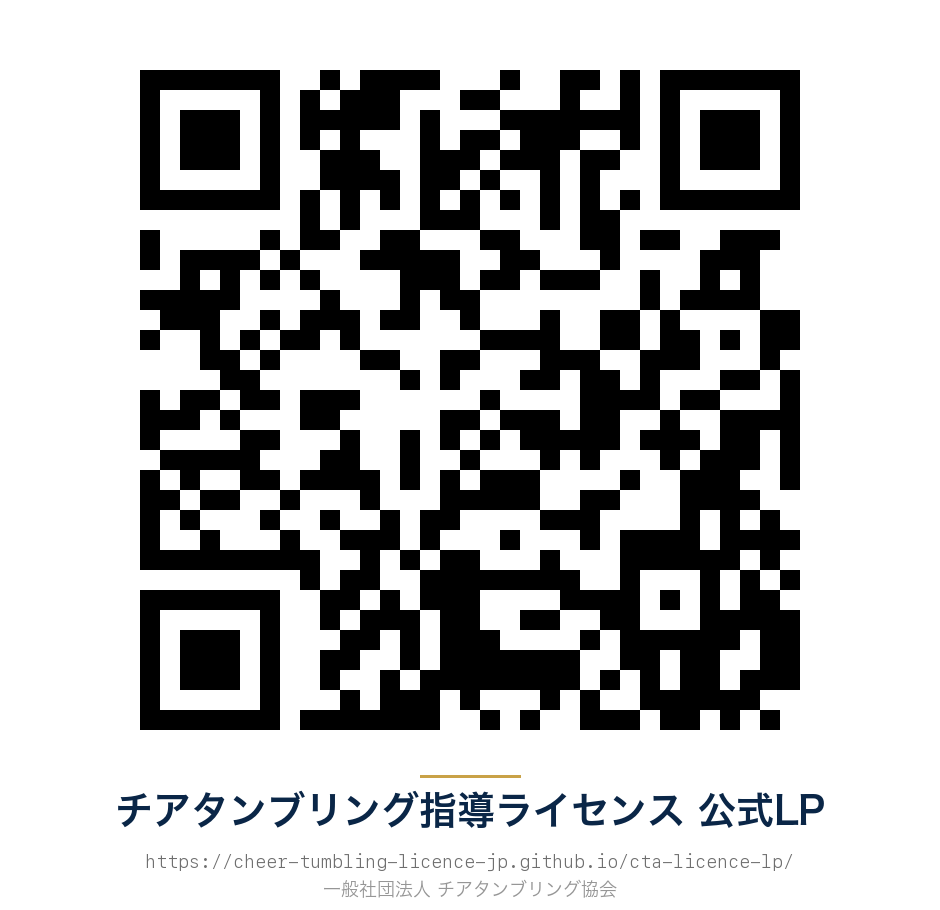
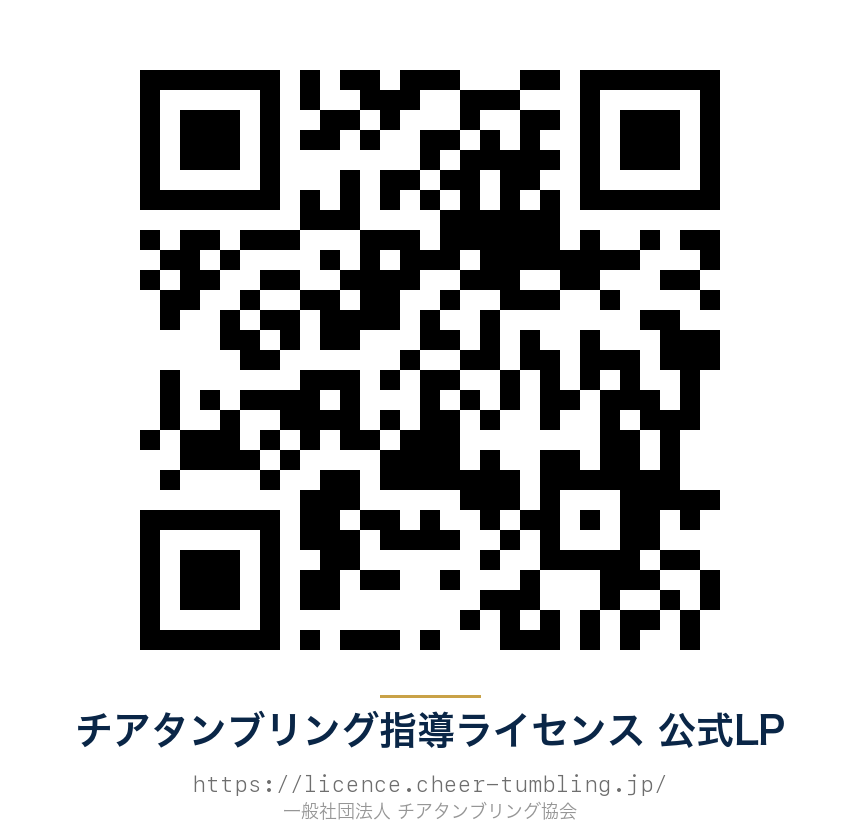
独自ドメイン licence.cheer-tumbling.jp に移行（CNAME追加・全URL更新・QR再生成）

diff --git a/index.html b/index.html
@@ -6,7 +6,7 @@
 <title>タンブリング指導ライセンス｜一般社団法人 チアタンブリング協会</title>
 <meta name="description" content="チアリーディング・体操・アクロバット指導者向けの認定資格。安全管理・段階的指導・基礎構造を体系化した、現場で活きる指導者のための基礎資格です。2027年度（令和9年度）受験受講のご案内。">
 <meta name="theme-color" content="#0a2647">
-<link rel="canonical" href="https://cheer-tumbling-licence-jp.github.io/cta-licence-lp/">
+<link rel="canonical" href="https://licence.cheer-tumbling.jp/">
 
 <!-- ==========================================
      Favicon（タブのアイコン）
@@ -23,8 +23,8 @@
 <meta property="og:title" content="タンブリング指導ライセンス｜チアタンブリング協会">
 <meta property="og:description" content="安全を理解し、理論に基づいた指導ができるコーチへ。CTA公式の指導者認定資格。2027年度受講受験生 受付中。">
 <meta property="og:type" content="website">
-<meta property="og:url" content="https://cheer-tumbling-licence-jp.github.io/cta-licence-lp/">
-<meta property="og:image" content="https://cheer-tumbling-licence-jp.github.io/cta-licence-lp/assets/ogp-card.png">
+<meta property="og:url" content="https://licence.cheer-tumbling.jp/">
+<meta property="og:image" content="https://licence.cheer-tumbling.jp/assets/ogp-card.png">
 <meta property="og:image:width" content="1200">
 <meta property="og:image:height" content="630">
 <meta property="og:locale" content="ja_JP">
@@ -32,7 +32,7 @@
 <meta name="twitter:card" content="summary_large_image">
 <meta name="twitter:title" content="タンブリング指導ライセンス｜チアタンブリング協会">
 <meta name="twitter:description" content="安全を理解し、理論に基づいた指導ができるコーチへ。CTA公式の指導者認定資格。">
-<meta name="twitter:image" content="https://cheer-tumbling-licence-jp.github.io/cta-licence-lp/assets/ogp-card.png">
+<meta name="twitter:image" content="https://licence.cheer-tumbling.jp/assets/ogp-card.png">
 
 <!-- ==========================================
      Google Search Console 認証用メタタグ
@@ -66,7 +66,7 @@
   "provider": {
     "@type": "Organization",
     "name": "一般社団法人 チアタンブリング協会",
-    "url": "https://cheer-tumbling-licence-jp.github.io/cta-licence-lp/"
+    "url": "https://licence.cheer-tumbling.jp/"
   },
   "offers": [
     {"@type":"Offer","name":"2級（基礎）","price":"29700","priceCurrency":"JPY"},

diff --git a/404.html b/404.html
@@ -77,7 +77,7 @@ p{
       URLが変更された、または削除された可能性があります。<br>
       お手数ですがトップページからお探しください。
     </p>
-    <a class="btn" href="/cta-licence-lp/">トップページへ戻る</a>
+    <a class="btn" href="/">トップページへ戻る</a>
     <div class="divider"></div>
     <p class="foot">一般社団法人 チアタンブリング協会</p>
   </div>

diff --git a/README.md b/README.md
@@ -2,7 +2,7 @@
 
 一般社団法人チアタンブリング協会の指導ライセンスのランディングページ。
 
-- **公開URL**: <https://cheer-tumbling-licence-jp.github.io/cta-licence-lp/>
+- **公開URL**: <https://licence.cheer-tumbling.jp/>
 - **GitHubリポジトリ**: <https://github.com/cheer-tumbling-licence-jp/cta-licence-lp>
 
 ---
@@ -38,7 +38,7 @@ Claude Codeで「**LPの〇〇を△△に変えて公開して**」と頼むだ
 4. **「Summary」欄に何を変えたか書く**（例：`受講料を更新`）
 5. **「Commit to main」** ボタンをクリック
 6. 上部の **「Push origin」** ボタンをクリック
-7. 1〜2分後、`https://cheer-tumbling-licence-jp.github.io/cta-licence-lp/` に反映
+7. 1〜2分後、`https://licence.cheer-tumbling.jp/` に反映
 
 ### B. ターミナルで `publish.sh`（コマンド一発で公開）
 
@@ -87,11 +87,13 @@ LP/
 
 ---
 
-## 公開URLを変えたいとき
+## 公開URLについて
 
-現状のURLは `/cta-licence-lp/` です。`/LP/` 部分を変えたい場合は、リポジトリ名を変更します。Claudeに「リポジトリ名を **〇〇** に変更して」と頼むか、GitHub上で `Settings → Repository name` から変更できます。
+独自ドメイン **`licence.cheer-tumbling.jp`** で公開しています（ムームードメインで取得した `cheer-tumbling.jp` のサブドメイン）。
 
-独自ドメイン（例：`license.cheer-tumbling.org`）にすることも可能です。ドメインを取得済みでしたらClaudeにご相談ください。
+- ドメイン管理：ムームードメイン（年1回更新・自動更新ON）
+- DNS設定：ムームーDNS にて `licence` のCNAMEレコードを GitHub Pages に向けて設定済み
+- リポジトリ直下の `CNAME` ファイルが独自ドメインを指定しています（**このファイルは消さないこと**）
 
 ---
 
